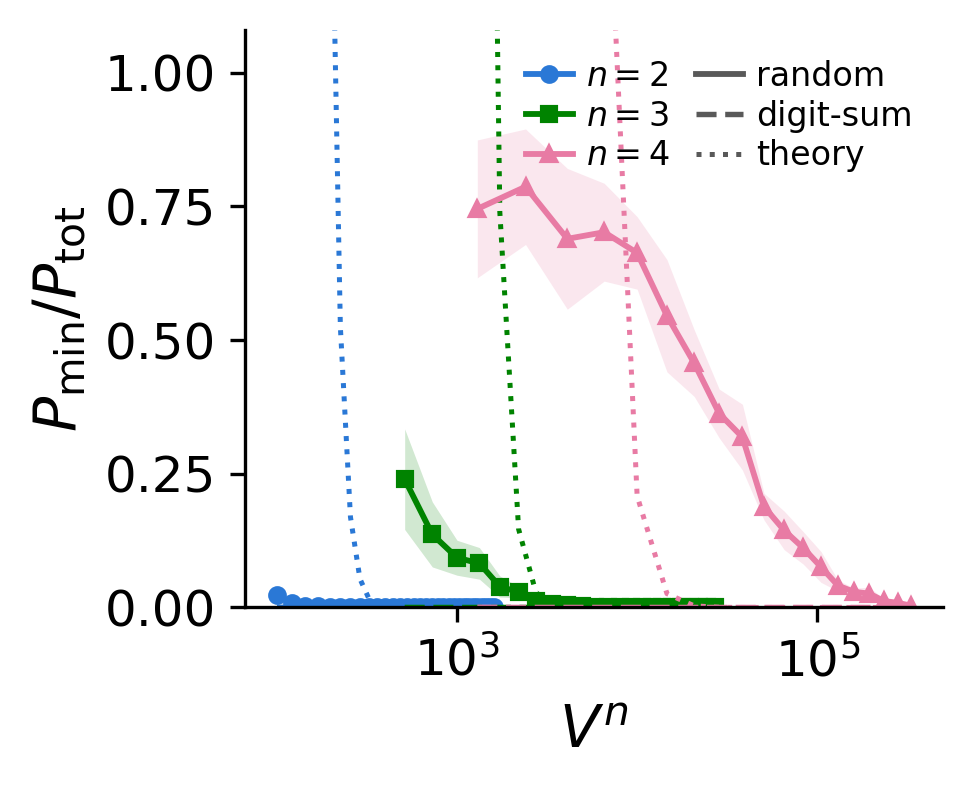
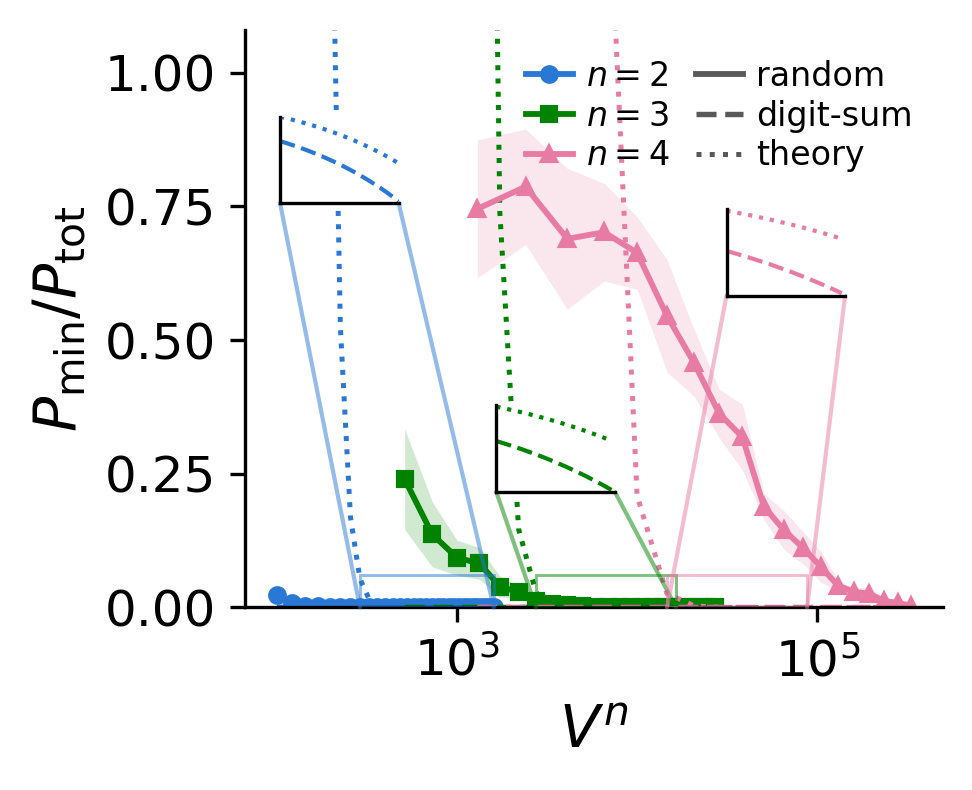
plot updates

diff --git a/theory_plots/theorem1_theorem2.py b/theory_plots/theorem1_theorem2.py
@@ -28,6 +28,7 @@ import networkx as nx
 from scipy.sparse import csr_matrix
 from scipy.sparse.csgraph import breadth_first_order, dijkstra
 import matplotlib.pyplot as plt
+import matplotlib.ticker as mticker
 from matplotlib.lines import Line2D
 
 try:
@@ -130,12 +131,12 @@ class DeBruijn_DAG:
 
 		# all De Bruijn successors of node value v are v//V + b*V^(n-1), b in [0, V).
 		# Scan one branch character b at a time to keep peak memory at O(M) rather
-		# than O(M*V) -- the (M, V) form is prohibitive for large V^n (e.g. n=5).
+		# than O(M*V).
 		Vp = V ** (n - 1)
 		base = np.arange(M) // V          # first n-1 chars shifted, shared by all b
 		not_sink_u = ~self.is_sink
 		is_source = self.is_source
-		eu_parts, ev_parts = [], []
+		eu_parts, ev_parts = [], [] # parts of the edge arrays eu -> ev
 		for b in range(V):
 			ev_b = base + b * Vp          # successor value when appending char b
 			keep_b = not_sink_u & (pos < pos[ev_b]) & (~is_source[ev_b])
@@ -148,7 +149,7 @@ class DeBruijn_DAG:
 
 		# prune nodes not on any source-to-sink path: a node survives iff it is
 		# reachable from a source (forward BFS) AND it reaches a sink (backward BFS)
-		s_star, t_star = M, M + 1
+		s_star, t_star = M, M + 1 # fake super-source and super-sink node
 		src_vals = self.pi_all[:self.S]
 		snk_vals = self.pi_all[M - self.N:]
 		rows = np.concatenate([eu, np.full(self.S, s_star), snk_vals])
@@ -1035,8 +1036,56 @@ def _legend(ax, keys):
 	leg._legend_box.align = 'left'
 
 
+def _theory_insets(ax, results, keys, ds_key, theory_key, yb=0.06):
+	"""
+	Add one small zoomed inset per n, arranged left / middle / right (for the three
+	keys) in the axes' open space. Each inset is a log-y zoom of that n's theory
+	bound (dotted) and digit-sum ordering value (dashed) over the tail where the
+	theory line has dropped below yb; the dashed curve staying under the dotted one
+	shows the digit-sum ordering satisfies the Theorem 1 bound. indicate_inset draws
+	a box on the main axes marking the region each inset magnifies, with connectors.
+	"""
+	# [x0, y0, w, h] in axes fraction: left / middle / right for keys[0..2]
+	positions = [[0.05, 0.70, 0.17, 0.15],
+				 [0.36, 0.20, 0.17, 0.15],
+				 [0.69, 0.54, 0.17, 0.15]]
+	for i, k in enumerate(keys):
+		rows = results[k]
+		Vn = np.array([r['Vn'] for r in rows], dtype=float)
+		ds = np.array([r[ds_key] for r in rows])
+		th = np.array([r[theory_key] for r in rows])
+		col = CURVE_COLORS[i]
+		below = np.nonzero(th < yb)[0]
+		if len(below) == 0:
+			continue
+		# window: from the knee (theory < yb) to ~one decade past it, so the marked
+		# source box stays compact instead of spanning the whole tail
+		x0 = Vn[below[0]]
+		x1 = min(Vn[-1], x0 * 6.0)
+		sel = (Vn >= x0) & (Vn <= x1)
+
+		axin = ax.inset_axes(positions[min(i, len(positions) - 1)])
+		axin.plot(Vn[sel], th[sel], color=col, ls=THEORY_LS, lw=1.0)
+		axin.plot(Vn[sel], ds[sel], color=col, ls=DIGITSUM_LS, lw=1.0)
+		axin.set_xscale('log')
+		axin.set_yscale('log')
+		axin.set_xlim(x0, x1)
+		axin.set_ylim(max(ds[sel].min() * 0.3, 1e-300), yb)
+		for axis in (axin.xaxis, axin.yaxis):
+			axis.set_major_locator(mticker.NullLocator())
+			axis.set_minor_locator(mticker.NullLocator())
+		for s in ('top', 'right'):
+			axin.spines[s].set_visible(False)
+		# mark the region of the main plot this inset magnifies + connectors
+		_, connects = ax.indicate_inset([x0, 0.0, x1 - x0, yb], inset_ax=axin,
+										edgecolor=col, alpha=0.5, lw=0.7)
+		# keep only the connectors meeting the inset's two bottom corners
+		for c in connects:
+			c.set_visible(c.xy2[1] == 0)
+
+
 def _plot_ratio(results, keys, mean_key, lo_key, hi_key, ds_key, theory_key,
-				ylabel, outpath, log_y=False, show_legend=True):
+				ylabel, outpath, log_y=False, show_legend=True, show_insets=False):
 	"""
 	Plot vs V^n (log x) of three quantities per n: the random-permutation mean
 	(solid line + marker, with a shaded band from lo_key to hi_key), the digit-sum
@@ -1070,6 +1119,8 @@ def _plot_ratio(results, keys, mean_key, lo_key, hi_key, ds_key, theory_key,
 	_style_axis(ax)
 	if show_legend:
 		_legend(ax, keys)
+	if show_insets:
+		_theory_insets(ax, results, keys, ds_key, theory_key)
 	fig.savefig(outpath + '.pdf', bbox_inches='tight')
 	fig.savefig(outpath + '.png', bbox_inches='tight', dpi=300)
 	plt.close(fig)
@@ -1079,10 +1130,11 @@ def make_plots(results, outdir):
 	keys = sorted(results.keys())
 	figdir = os.path.join(outdir, 'figures')
 	os.makedirs(figdir, exist_ok=True)
-	# Plot 1: P_min / P_tot vs V^n (linear y), with the Theorem 1 bound
+	# Plot 1: P_min / P_tot vs V^n (linear y), Theorem 1 bound + left/middle/right insets
 	_plot_ratio(results, keys, 'path_ratio_mean', 'path_ratio_lo', 'path_ratio_hi',
 				'ds_path_ratio', 'theory1_ratio', r'$P_{\min}/P_{\mathrm{tot}}$',
-				os.path.join(figdir, 'theorem1_path_ratio'), log_y=False)
+				os.path.join(figdir, 'theorem1_path_ratio'), log_y=False,
+				show_insets=True)
 	# Plot 2: L_cover / L_max vs V^n (linear y), with the Theorem 2 bound (no legend)
 	_plot_ratio(results, keys, 'len_ratio_mean', 'len_ratio_lo', 'len_ratio_hi',
 				'ds_len_ratio', 'theory2_ratio', r'$L_{\mathrm{cover}}/L_{\mathrm{max}}$',
